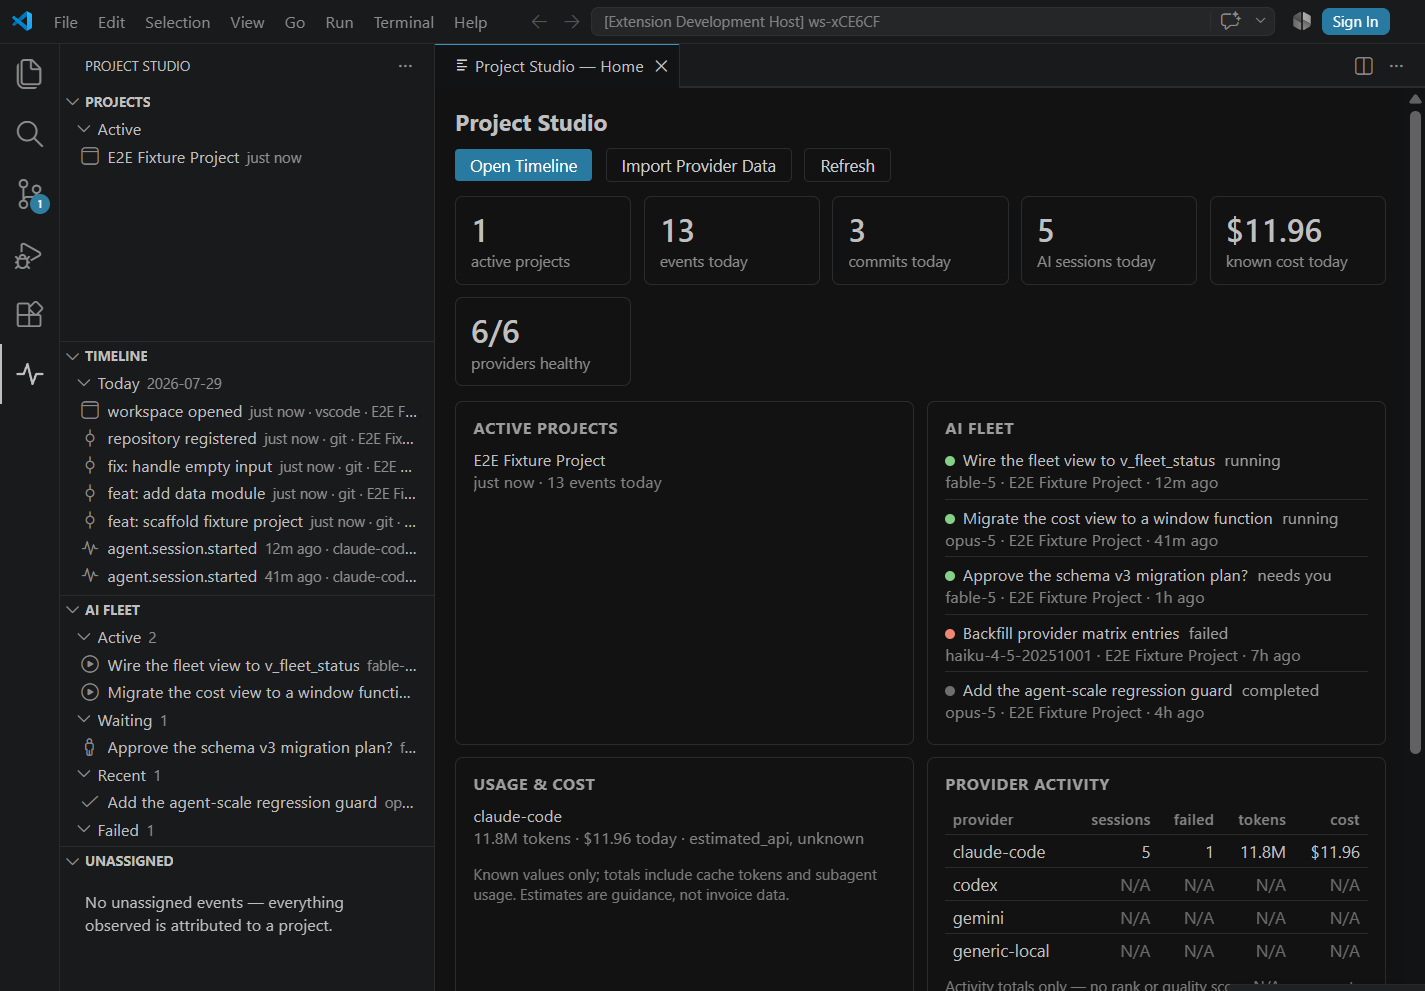
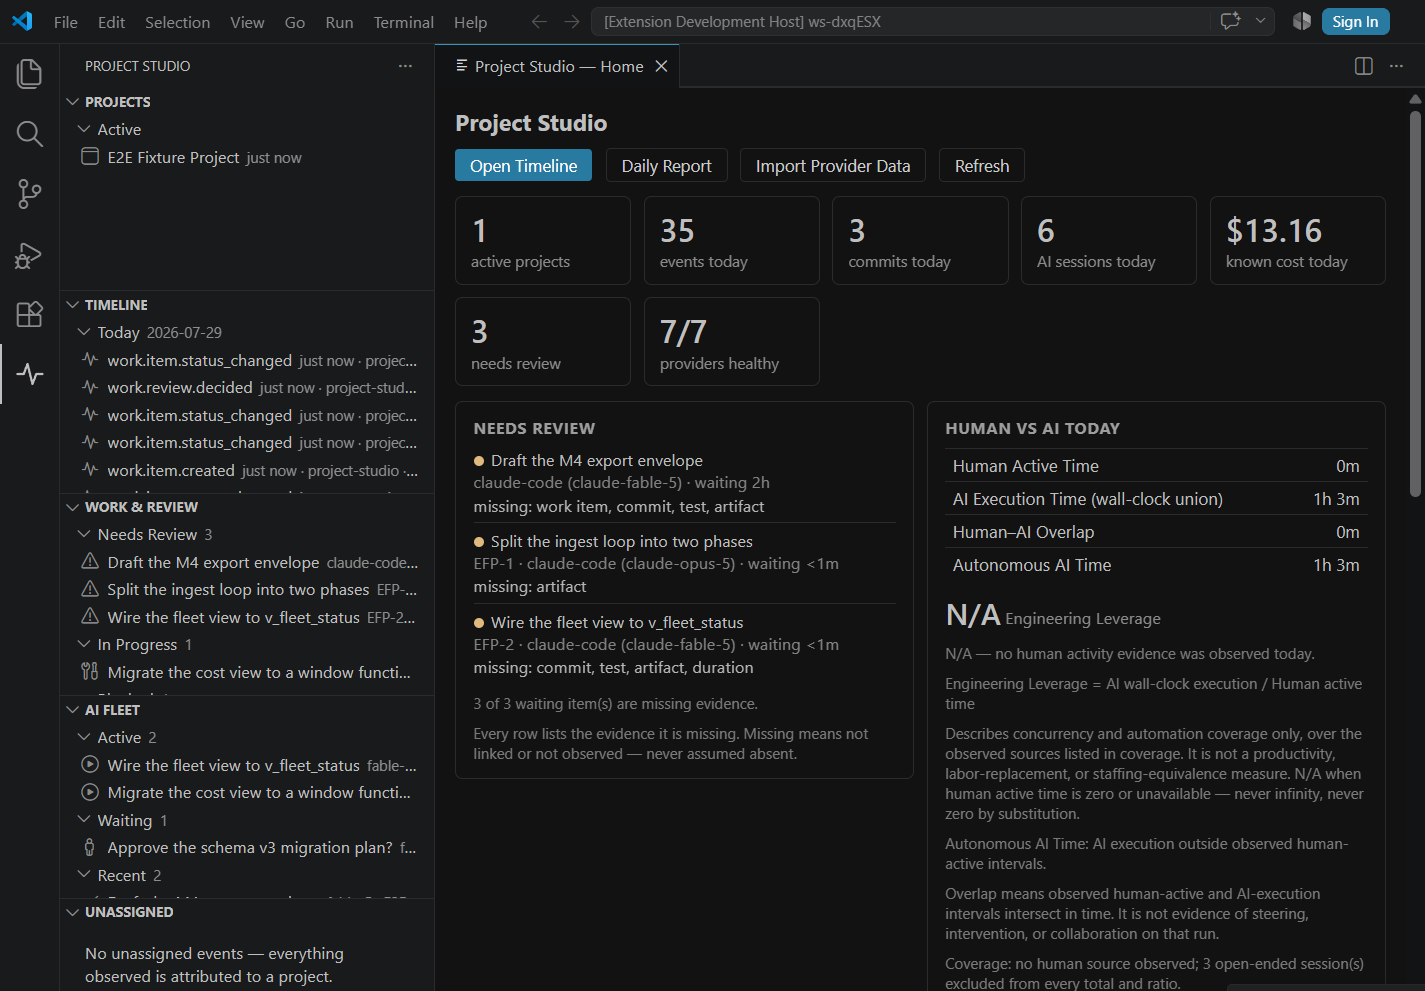
0.4.0: work, review, time, reports, health — README, changelog, and new media

diff --git a/README.md b/README.md
@@ -182,7 +182,8 @@ directly. It speaks stdio, runs on your machine, and reads the same stable views
 | `provider_health` | Per-provider import health: enabled state, last run, errors, counters |
 | `db_info` | Database path, schema version, view catalog version, and row counts |
 
-Work-item, review-queue, time, health, and daily-report tools are **coming in the next release**.
+These cover work items, the review queue, human-vs-AI time, project health, and the daily report
+as well.
 
 ## Privacy
 
@@ -295,10 +296,32 @@ Work-item, report, and export commands arrive in the next release.
 | `projectStudio.geminiHome` | `""` | Override the Gemini CLI data directory; empty uses `~/.gemini` |
 | `projectStudio.genericLocalImportEnabled` | `true` | Import generic local-agent JSONL event drops from Project Studio's own spool directory |
 
+### Work, review, and reports
+
+Assign work to a human or an AI contributor, link the sessions and commits that did it, and then
+decide: accept, request revision, or reject. A review-ready agent result moves its work item to
+*review* — never to *done*. Only an explicit human acceptance completes work, and every decision is
+an append-only audit row.
+
+![Work & Review queue with pending AI results](https://raw.githubusercontent.com/LynxDI/project-studio/main/media/review.png)
+
+The daily report is generated locally with no model involved, and every claim carries the event ids
+behind it — so any number in it can be traced back to the evidence that produced it.
+
+![Deterministic daily report with cited evidence ids](https://raw.githubusercontent.com/LynxDI/project-studio/main/media/report.png)
+
+Human active time, AI execution, their overlap, and autonomous AI time are computed from merged
+intervals and labeled separately. AI execution is never presented as human developer hours, and
+leverage reads `N/A` rather than infinity when the denominator is unavailable.
+
 ## Roadmap
 
-**Next release:** work items with a human review queue, human-vs-AI time separation, deterministic
-daily reports with cited evidence, and basic project health — plus the MCP tools that expose them.
+**Shipped in 0.4.0:** work items with a human review queue, human-vs-AI time separation,
+deterministic daily reports with cited evidence, project health, and export/deletion — plus the MCP
+tools that expose them.
+
+**Next:** a GitHub read provider (pull requests, reviews, checks), weekly and monthly reports, and
+optional local-model runtimes.
 Placeholders in the UI say so honestly rather than showing empty charts.
 
 ## Support

diff --git a/CHANGELOG.md b/CHANGELOG.md
@@ -1,5 +1,37 @@
 # Changelog
 
+## 0.4.0 — 2026-07-29
+
+Milestone 4: work, review, time, and reports — plus release hardening.
+
+- **Work items and a human review queue.** Create work items, link sessions and
+  commits to them, and accept / request revision / reject an AI result. A
+  review-ready session moves its item to *review*, never to *done*: only an
+  explicit human acceptance completes work. Decisions are append-only audit rows.
+- **Human vs AI time, kept separate.** Human active, AI execution, overlap, and
+  autonomous intervals are computed from merged UTC intervals and labeled
+  distinctly. Leverage reads N/A rather than infinity when the denominator is
+  unavailable, and AI execution is never presented as human developer hours.
+- **Deterministic daily report.** Generated locally with no model involved, and
+  every claim carries the event ids behind it. Overnight work uses a printed,
+  configurable window.
+- **Project health.** A versioned rule artifact with six dimensions, evidence and
+  thresholds on every result. Unknown dimensions never score as failures; fewer
+  than three available reads *Not Calculated*.
+- **Export and deletion.** Versioned JSON/CSV/Markdown export envelopes, and a
+  two-step deletion that first shows an inventory of exactly what it will remove.
+- New MCP tools and `pstudio work | review | time | health | report`.
+
+### Security and packaging hardening
+
+- Internal test commands no longer register in production installs — previously
+  another installed extension could have invoked them to read your cross-project
+  timeline or bypass the adoption gate.
+- Agent-home and import settings are read from user scope only, so a cloned
+  repository can no longer repoint the reader at a network path.
+- Packaging now always rebuilds, and the extension identifier is
+  `lynxdi.project-studio`.
+
 ## 0.3.0 — 2026-07-29
 
 Milestone 3: every agent provider.
